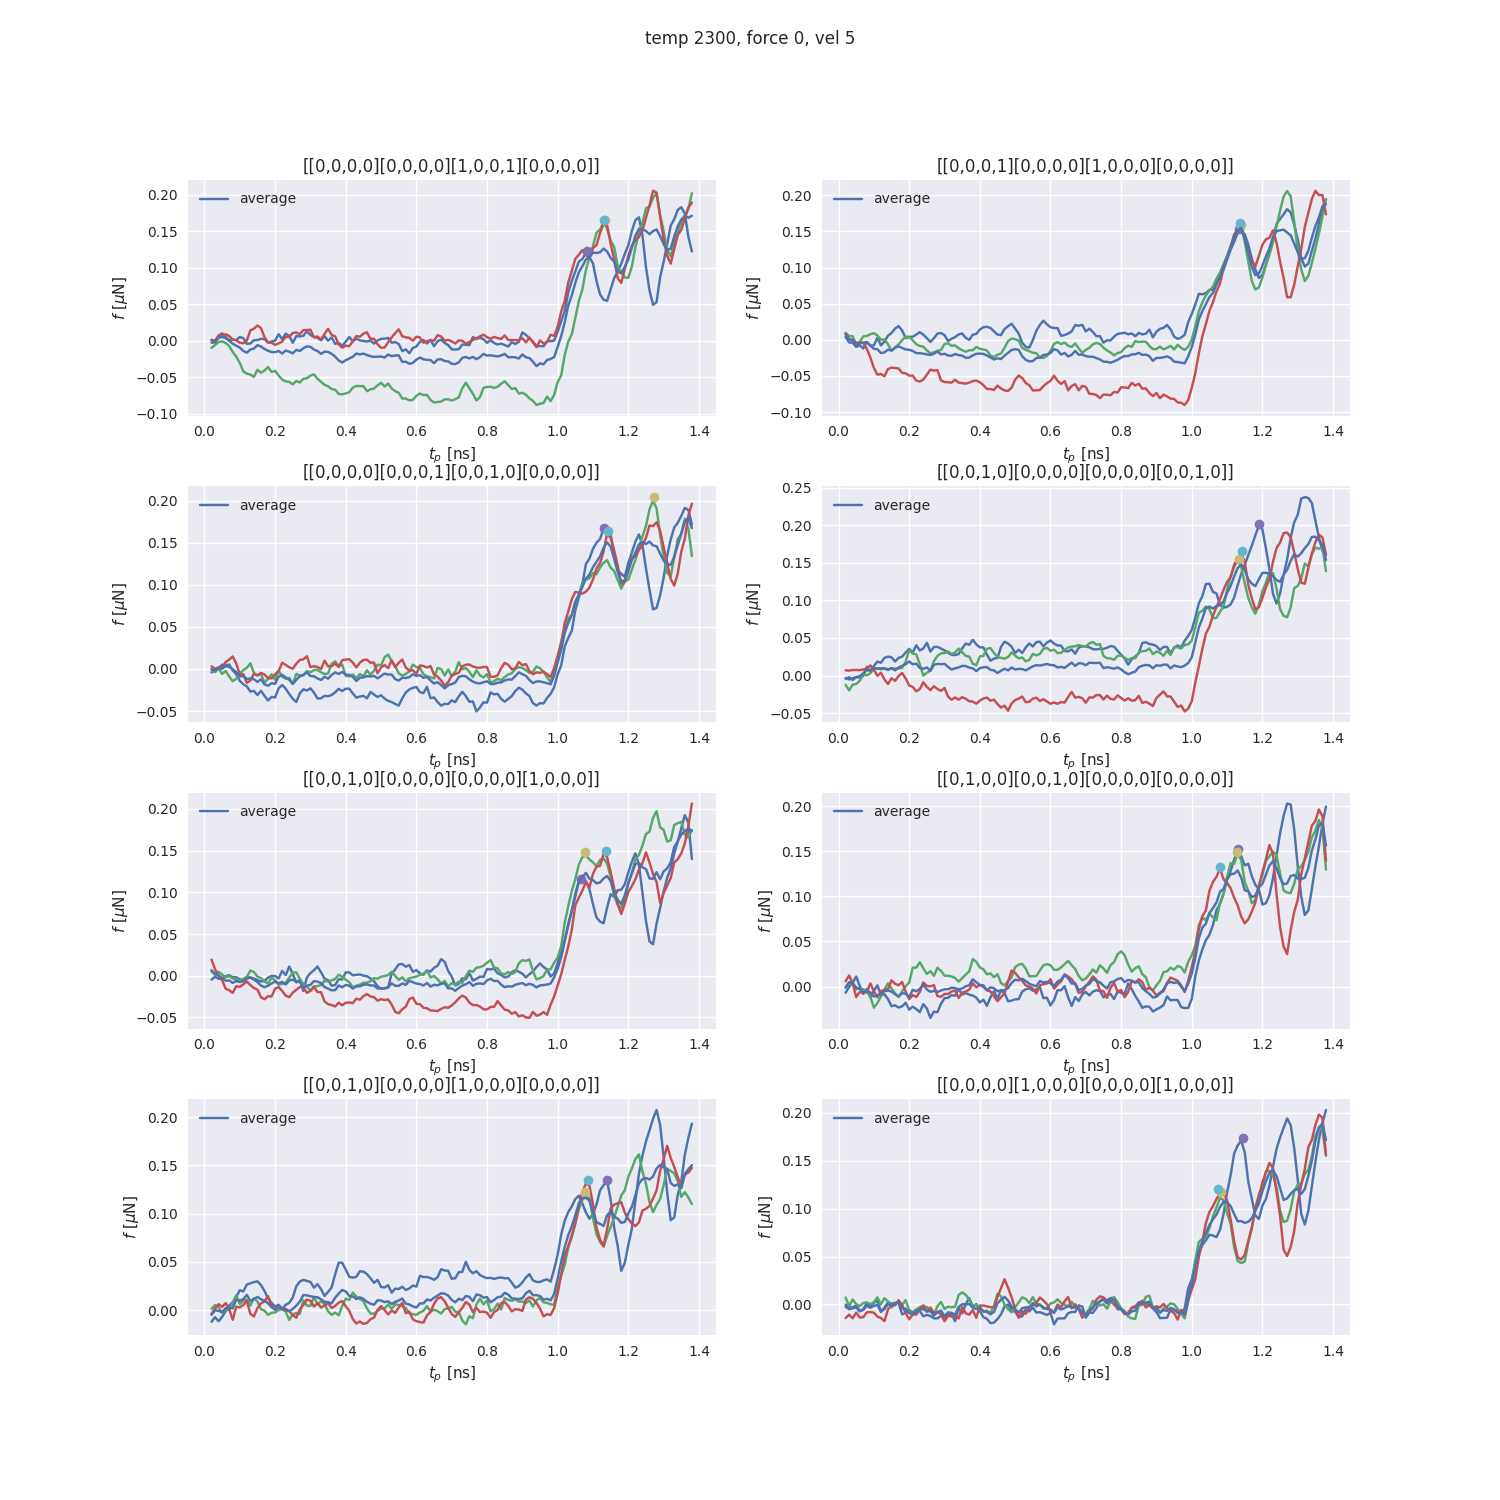
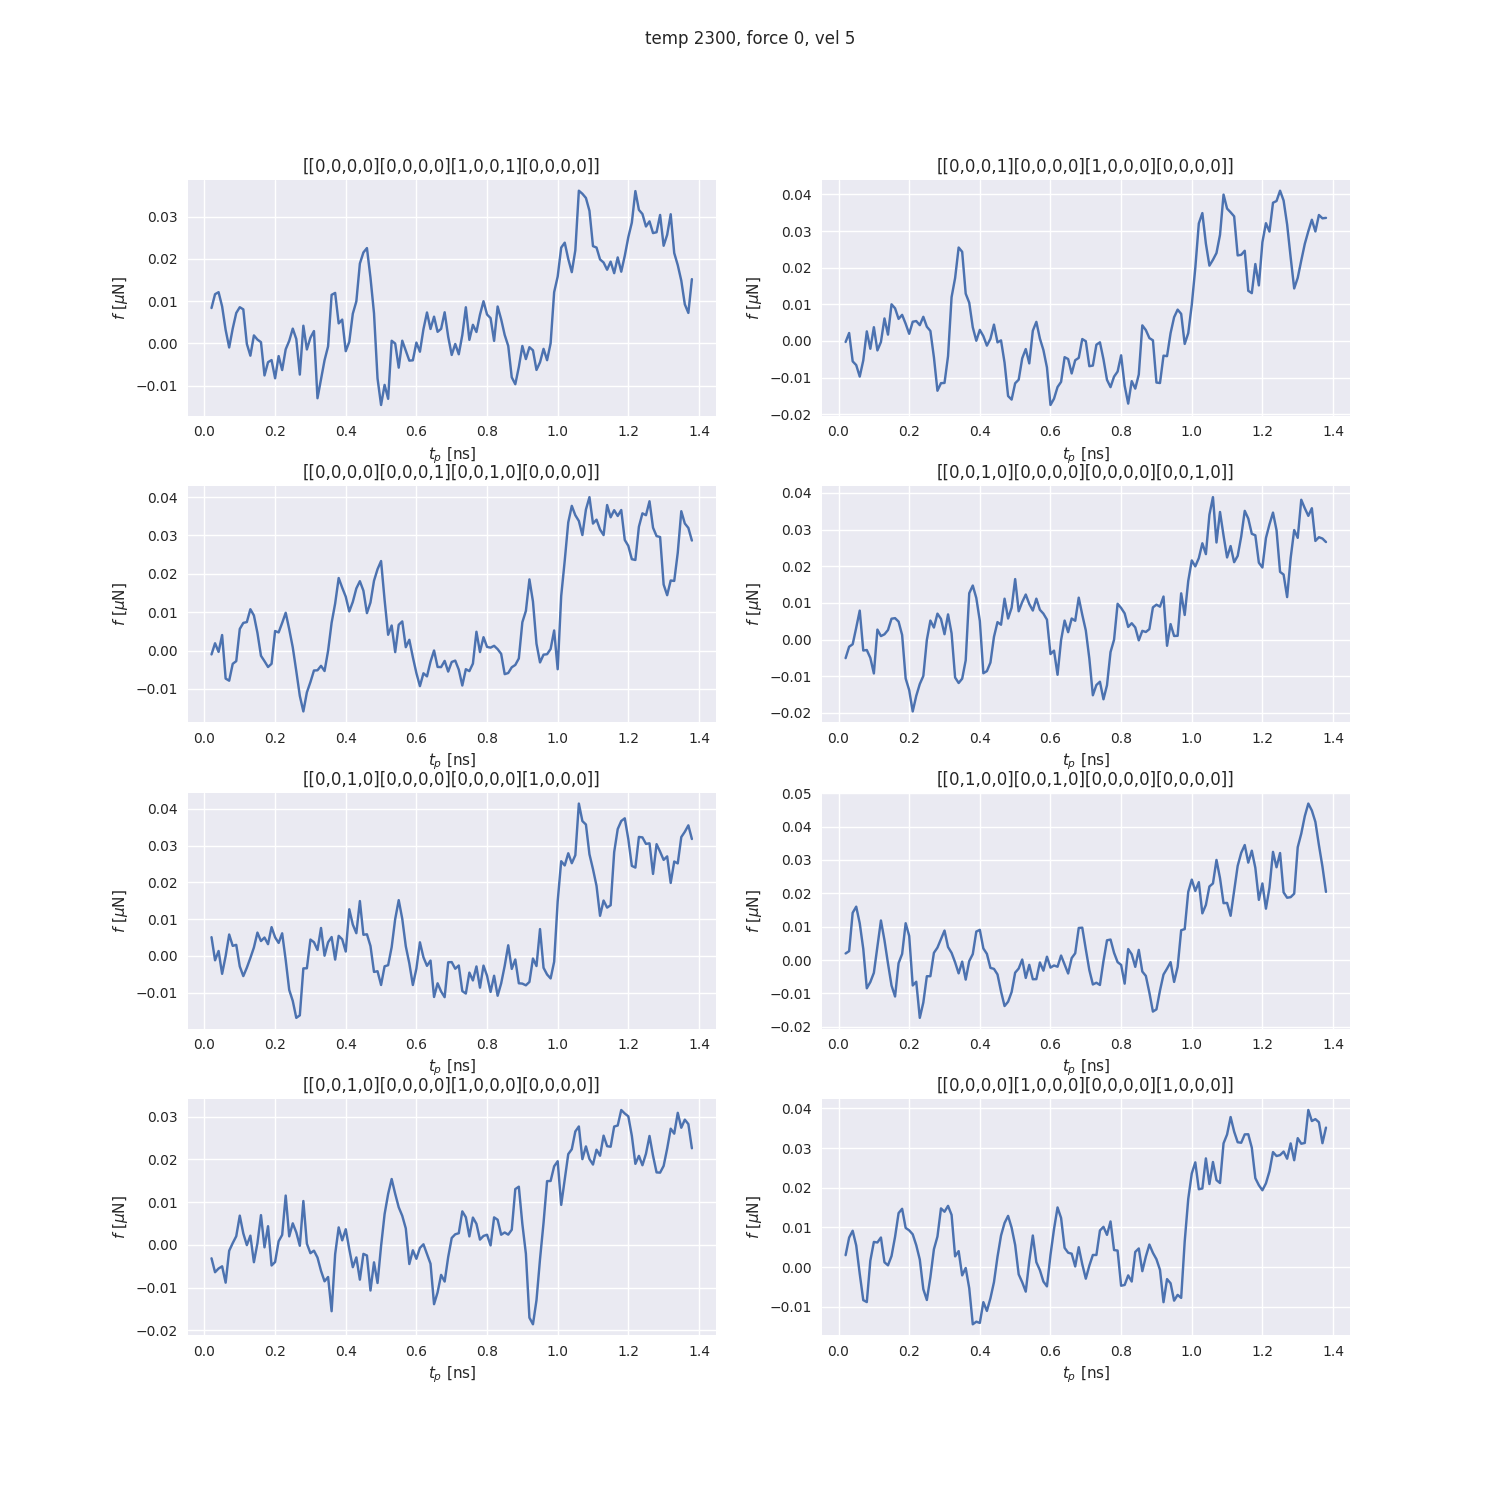
ran 110 figure

diff --git a/python/plot/plot_load_curves.py b/python/plot/plot_load_curves.py
@@ -40,26 +40,50 @@ def load_displacement(temp, vel, force, orientation, grid, disp_template, initnu
 def load_load_curves(temp, vel, force, asperities, orientation, grid, template_lc, template_ms, initnum, seeds):
     # load load curves
     load_curves_all = []
-    for seed in seeds: 
-        load_curve_files = template_lc.format(temp, vel, force, asperities, initnum, seed, grid[0], grid[1])
+    if isinstance(seeds, list) and len(seeds) > 1: 
+        for seed in seeds: 
+            load_curve_files = template_lc.format(temp, vel, force, asperities, initnum, seed, grid[0], grid[1])
+            print('load curve files: ', load_curve_files) 
+            files = glob(load_curve_files)
+            assert files != []
+            for _file in glob(load_curve_files):
+                load_curves = loadtxt(_file)
+                load_curves_all.append(load_curves)
+    else:
+        load_curve_files = template_lc.format(temp, vel, force, asperities, initnum, seeds, grid[0], grid[1])
         print('load curve files: ', load_curve_files) 
         files = glob(load_curve_files)
         assert files != []
         for _file in glob(load_curve_files):
             load_curves = loadtxt(_file)
             load_curves_all.append(load_curves)
+        
     load_curves_all = np.array(load_curves_all)
-    load_curves = mean(load_curves_all, axis=0)
-    load_curves = load_curves.reshape(-1, np.shape(load_curves)[0], 2)   # assuming that all curves have 1001 points
+    if isinstance(seeds, list):
+        load_curves = mean(load_curves_all, axis=0)
+        load_curves = load_curves.reshape(-1, np.shape(load_curves)[0], 2)   # assuming that all curves have 1001 points
+    else:
+        load_curves = None
     
     return load_curves_all, load_curves
 
 
 def load_max_static(temp, vel, force, asperities, orientation, grid, template_lc, template_ms, initnum, seeds):
     ms_all = []
-    
-    for seed in seeds:
-        ms_files = template_ms.format(temp, vel, force, asperities, initnum, seed, 4, 4)
+   
+    if isinstance(seeds, list):
+        for seed in seeds:
+            ms_files = template_ms.format(temp, vel, force, asperities, initnum, seed, grid[0], grid[1])
+            files = glob(ms_files)
+            # ms files: time [nS] max friction [mN] 
+            assert files != []
+            
+            for file in glob(ms_files):
+                time, ms = loadtxt(file)
+                ms_all.append((time,ms))
+        mean_static = mean(ms_all, axis = 0)
+    else:
+        ms_files = template_ms.format(temp, vel, force, asperities, initnum, seeds, grid[0], grid[1])
         files = glob(ms_files)
         # ms files: time [nS] max friction [mN] 
         assert files != []
@@ -67,8 +91,8 @@ def load_max_static(temp, vel, force, asperities, orientation, grid, template_lc
         for file in glob(ms_files):
             time, ms = loadtxt(file)
             ms_all.append((time,ms))
+        mean_static = None
 
-    mean_static = mean(ms_all, axis = 0)
     return ms_all , mean_static
 
 
@@ -372,9 +396,9 @@ def plot_production(temp, vel, force, uc, asperities, time, orientation, grid, e
 
     fig, axs = plt.subplots(4,2, figsize = (15,15))
     axs = axs.ravel()
-    initseed = {0: (77222, 77222), 1: (29672, 79672), 2: (64364, 64364), 
-                3: (33829, 33829), 4: (29082, 29082), 5: (16388, 16388), 
-                6: (69759, 69759), 7: (65472, 65472)}
+    initseed = {0: (77222), 1: (29672), 2: (64364), 
+                3: (33829), 4: (29082), 5: (16388), 
+                6: (69759), 7: (65472)}
 
     man_init = {0:'[[0,0,0,0][0,0,0,0][1,0,0,1][0,0,0,0]]', 1:'[[0,0,0,1][0,0,0,0][1,0,0,0][0,0,0,0]]',
                 2:'[[0,0,0,0][0,0,0,1][0,0,1,0][0,0,0,0]]', 3:'[[0,0,1,0][0,0,0,0][0,0,0,0][0,0,1,0]]',
@@ -388,6 +412,8 @@ def plot_production(temp, vel, force, uc, asperities, time, orientation, grid, e
         ms_all, ms_mean = load_max_static(temp, vel, force, asperities, orientation, grid,
                                  template_lc, template_ms, initnum, seeds)
 
+        print(load_curves_all, load_curves_mean)
+        print(ms_all, ms_mean)
         #extract system setup from auxiliary folder
         #with open (template_aux.format(asperities, uc, temp, force, asperities, time, 
         #           initnum, seed, asperities, uc, initnum)) as fp:
@@ -403,11 +429,11 @@ def plot_production(temp, vel, force, uc, asperities, time, orientation, grid, e
             print(ms)
             axs[i].plot(ms[0], ms[1], 'o') #this is just proprietary
 
-        print('mean load curves shape: ',load_curves_mean.shape)
+        #print('mean load curves shape: ',load_curves_mean.shape)
         print('all load curves shape: ',load_curves_all.shape)
-        print(' mean max static shape: ', ms_mean.shape)
-        axs[i].plot(load_curves_mean[0,:,0], load_curves_mean[0,:,1],'-', label = 'average')
-        axs[i].legend()
+        #print(' mean max static shape: ', ms_mean.shape)
+        #axs[i].plot(load_curves_mean[0,:,0], load_curves_mean[0,:,1],'-', label = 'average')
+        #axs[i].legend()
         #axs[i].plot(ms_mean[0], ms_mean[1], 'o')
         axs[i].set_xlabel(r"$t_p$ [ns]")
         axs[i].set_ylabel(r"$f$ [$\mu$N]")
